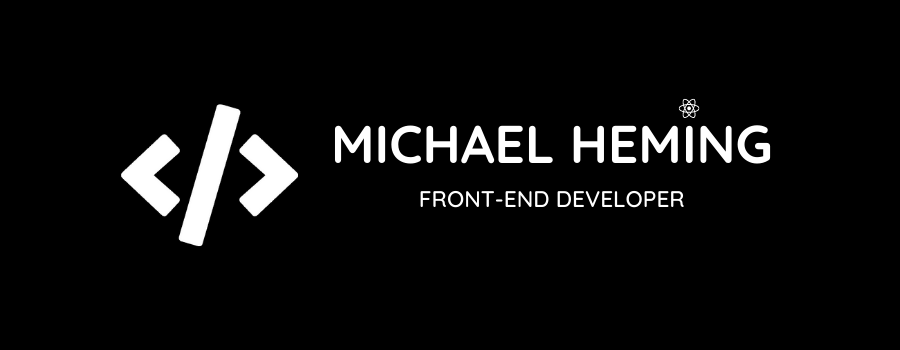
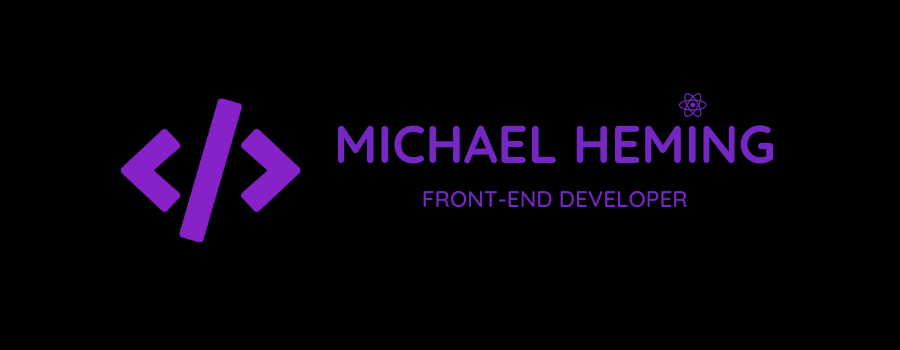
update readme

Changed region(s): [[0.3733, 0.2571, 0.8711, 0.4857], [0.1244, 0.2857, 0.3422, 0.7143], [0.4667, 0.5429, 0.7778, 0.6]]

diff --git a/README.md b/README.md
@@ -8,43 +8,50 @@
 	>
 </p>
 
-# 👋 Hello world! 🇧🇷
+## Hello how are you? 👋🏻
 
-> "Para ter o que poucos tem você terá que fazer o que poucos fazem."
+<hr>
 
-### Meu nome é Michael Heming, sou apaixonado pelo universo da programação, procuro me atualizar constantemente em relação as tecnologias do mercado e busco sempre trazer a melhor experiência possível ao usuário com base em UX/UI e performance.
+#### Meu nome é Michael Heming, sou apaixonado pelo universo da programação, procuro me atualizar constantemente em relação as tecnologias do mercado e busco sempre trazer a melhor experiência possível ao usuário com base em UX/UI e performance.
 
-##### Atualmente estou focado em aperfeiçoar minhas skills em: ReactJs, NextJs, NodeJs e NestJs.
+ - Atualmente estou focado em aperfeiçoar minhas skills em: ReactJs, NextJs, NodeJs e NestJs.
 
-<br><br>
+<br>
 
-## 🎓 Formação
+<a href="https://github.com/devmichaelheming">
+	<table>
+		<tr>
+			<td><img src="https://github-readme-streak-stats.herokuapp.com/?user=devmichaelheming&theme=midnight-purple&hide_border=true"/></td>
+			<td><img src="https://github-readme-stats.vercel.app/api?username=devmichaelheming&theme=midnight-purple&show_icons=true&hide_border=true"/></td>
+		</tr>
+	</table>
+</a>
+
+<br>
+
+## Formação
  - Análise e Desenvolvimento de Sistemas.
 
-<br><br>
+<br>
 
-## 👨💻 Trabalho Atual
+## Trabalho Atual
 - Desenvolvedor web na [TopSapp - Gestão de Provedores](https://www.topsapp.com.br/).
 
-<br><br>
+<br>
 
-## 🤹 Tecnologias e Ferramentas
+## Tecnologias e Ferramentas
 ![](https://img.shields.io/badge/HTML5-E34F26?style=for-the-badge&logo=html5&logoColor=white) ![](https://img.shields.io/badge/CSS3-1572B6?style=for-the-badge&logo=css3&logoColor=white) ![](https://img.shields.io/badge/JavaScript-323330?style=for-the-badge&logo=javascript&logoColor=F7DF1E) ![](https://img.shields.io/badge/Sass-CC6699?style=for-the-badge&logo=sass&logoColor=white) ![](https://img.shields.io/badge/PHP-777BB4?style=for-the-badge&logo=php&logoColor=white) ![](https://img.shields.io/badge/Laravel-FF2D20?style=for-the-badge&logo=laravel&logoColor=white) ![](https://img.shields.io/badge/jQuery-0769AD?style=for-the-badge&logo=jquery&logoColor=white) ![](https://img.shields.io/badge/Bootstrap-563D7C?style=for-the-badge&logo=bootstrap&logoColor=white)
 
 ![](https://img.shields.io/badge/React_Js-20232A?style=for-the-badge&logo=react&logoColor=61DAFB) ![](https://img.shields.io/badge/React_Native-20232A?style=for-the-badge&logo=react&logoColor=61DAFB) ![](https://img.shields.io/badge/TypeScript-007ACC?style=for-the-badge&logo=typescript&logoColor=white) ![](https://img.shields.io/badge/styled--components-DB7093?style=for-the-badge&logo=styled-components&logoColor=white) ![](https://img.shields.io/badge/Ant%20Design-1890FF?style=for-the-badge&logo=antdesign&logoColor=white)
 
 ![](https://img.shields.io/badge/Node.js-339933?style=for-the-badge&logo=nodedotjs&logoColor=white) ![](https://img.shields.io/badge/nestjs-E0234E?style=for-the-badge&logo=nestjs&logoColor=white) ![](https://img.shields.io/badge/SQLite-07405E?style=for-the-badge&logo=sqlite&logoColor=white) ![](https://img.shields.io/badge/Express.js-000000?style=for-the-badge&logo=express&logoColor=white) ![](https://img.shields.io/badge/MySQL-005C84?style=for-the-badge&logo=mysql&logoColor=white)
 
-<br><br>
+<br>
 
-## ⚙ &nbsp;Status do GitHub
-<a href="https://github.com/devmichaelheming">
-   <img height="160em" src="https://github-readme-stats.vercel.app/api?username=devmichaelheming&show_icons=true&theme=ayu-mirage&include_all_commits=true&count_private=true"/>
-   <img height="160em" src="https://github-readme-stats.vercel.app/api/top-langs/?username=devmichaelheming&layout=compact&langs_count=7&theme=ayu-mirage"/>
-</a>
-
-<br><br>
-
-## 👨🏽🦲 &nbsp;Redes sociais
+## Redes sociais
 [![Foo](https://img.shields.io/badge/Gmail-D14836?style=for-the-badge&logo=gmail&logoColor=white)](mailto:devmichael.heming@gmail.com) [![Foo](https://img.shields.io/badge/LinkedIn-0077B5?style=for-the-badge&logo=linkedin&logoColor=white)](https://www.linkedin.com/in/devmichaelheming)
+
+<br><br>
+
+> "Para ter o que poucos tem você terá que fazer o que poucos fazem."
 <!-- ![c633c20ede82f0e0ced7d570dbe3a1f3](https://user-images.githubusercontent.com/70382532/138322189-2db8df52-9dcb-40a0-88a8-c365466bd33d.gif) -->
